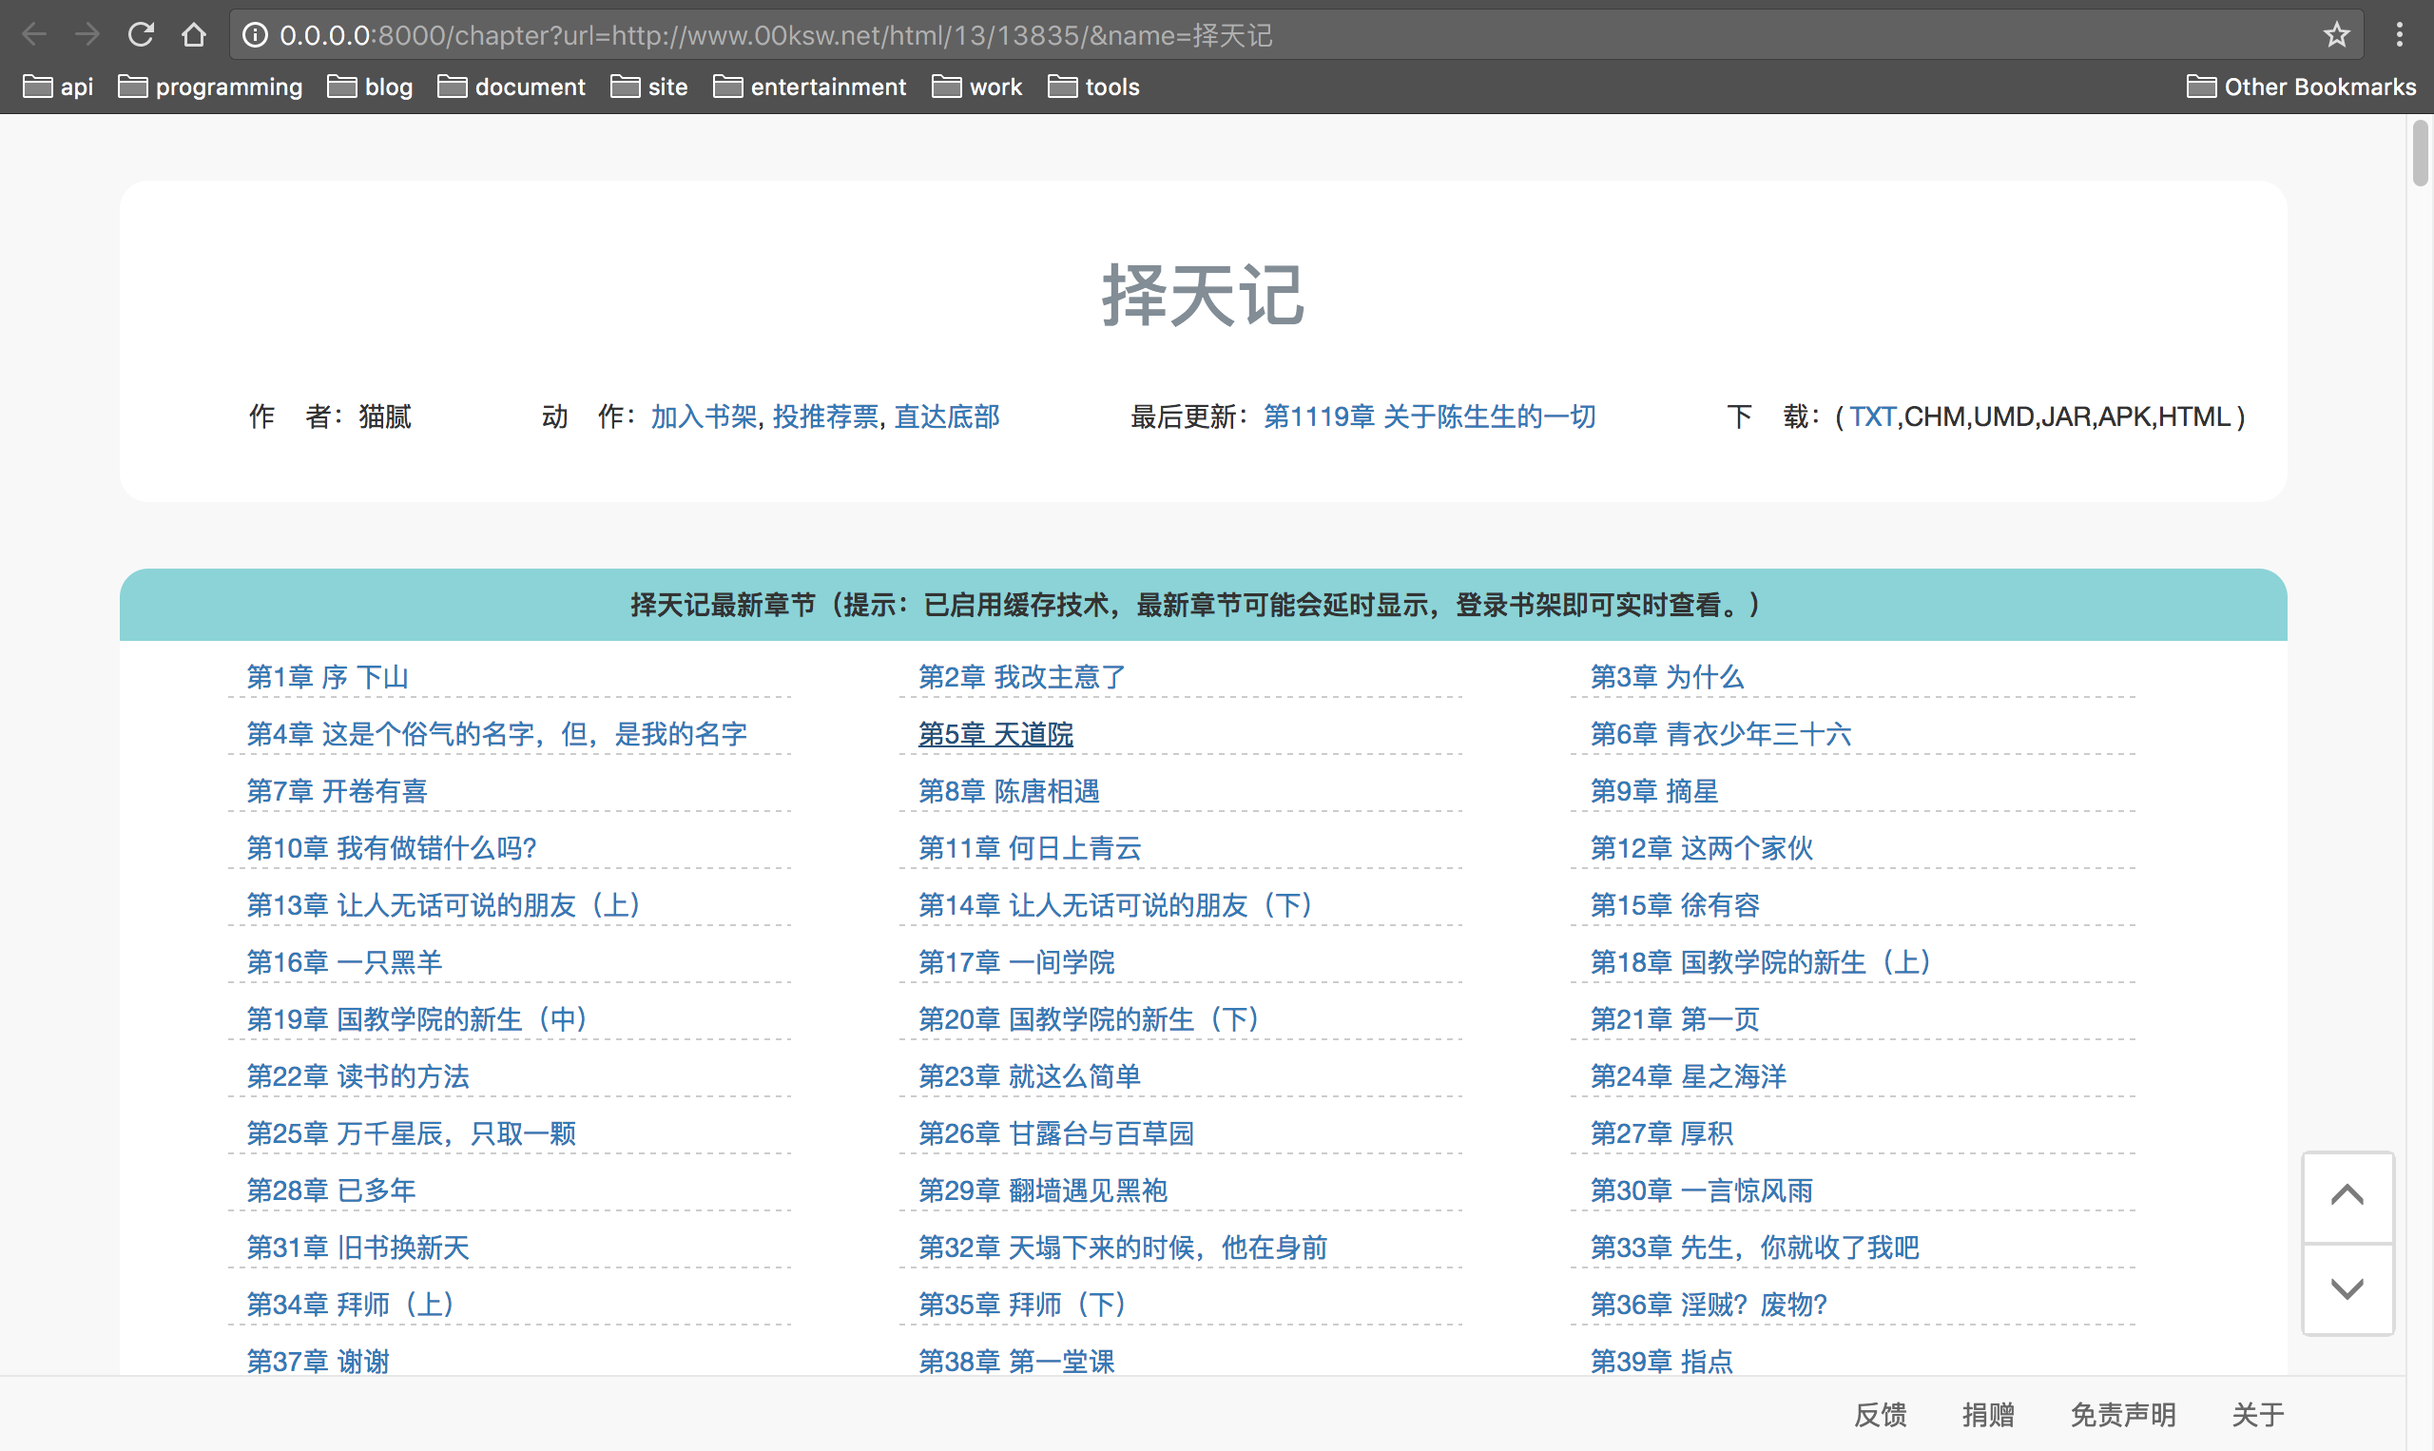
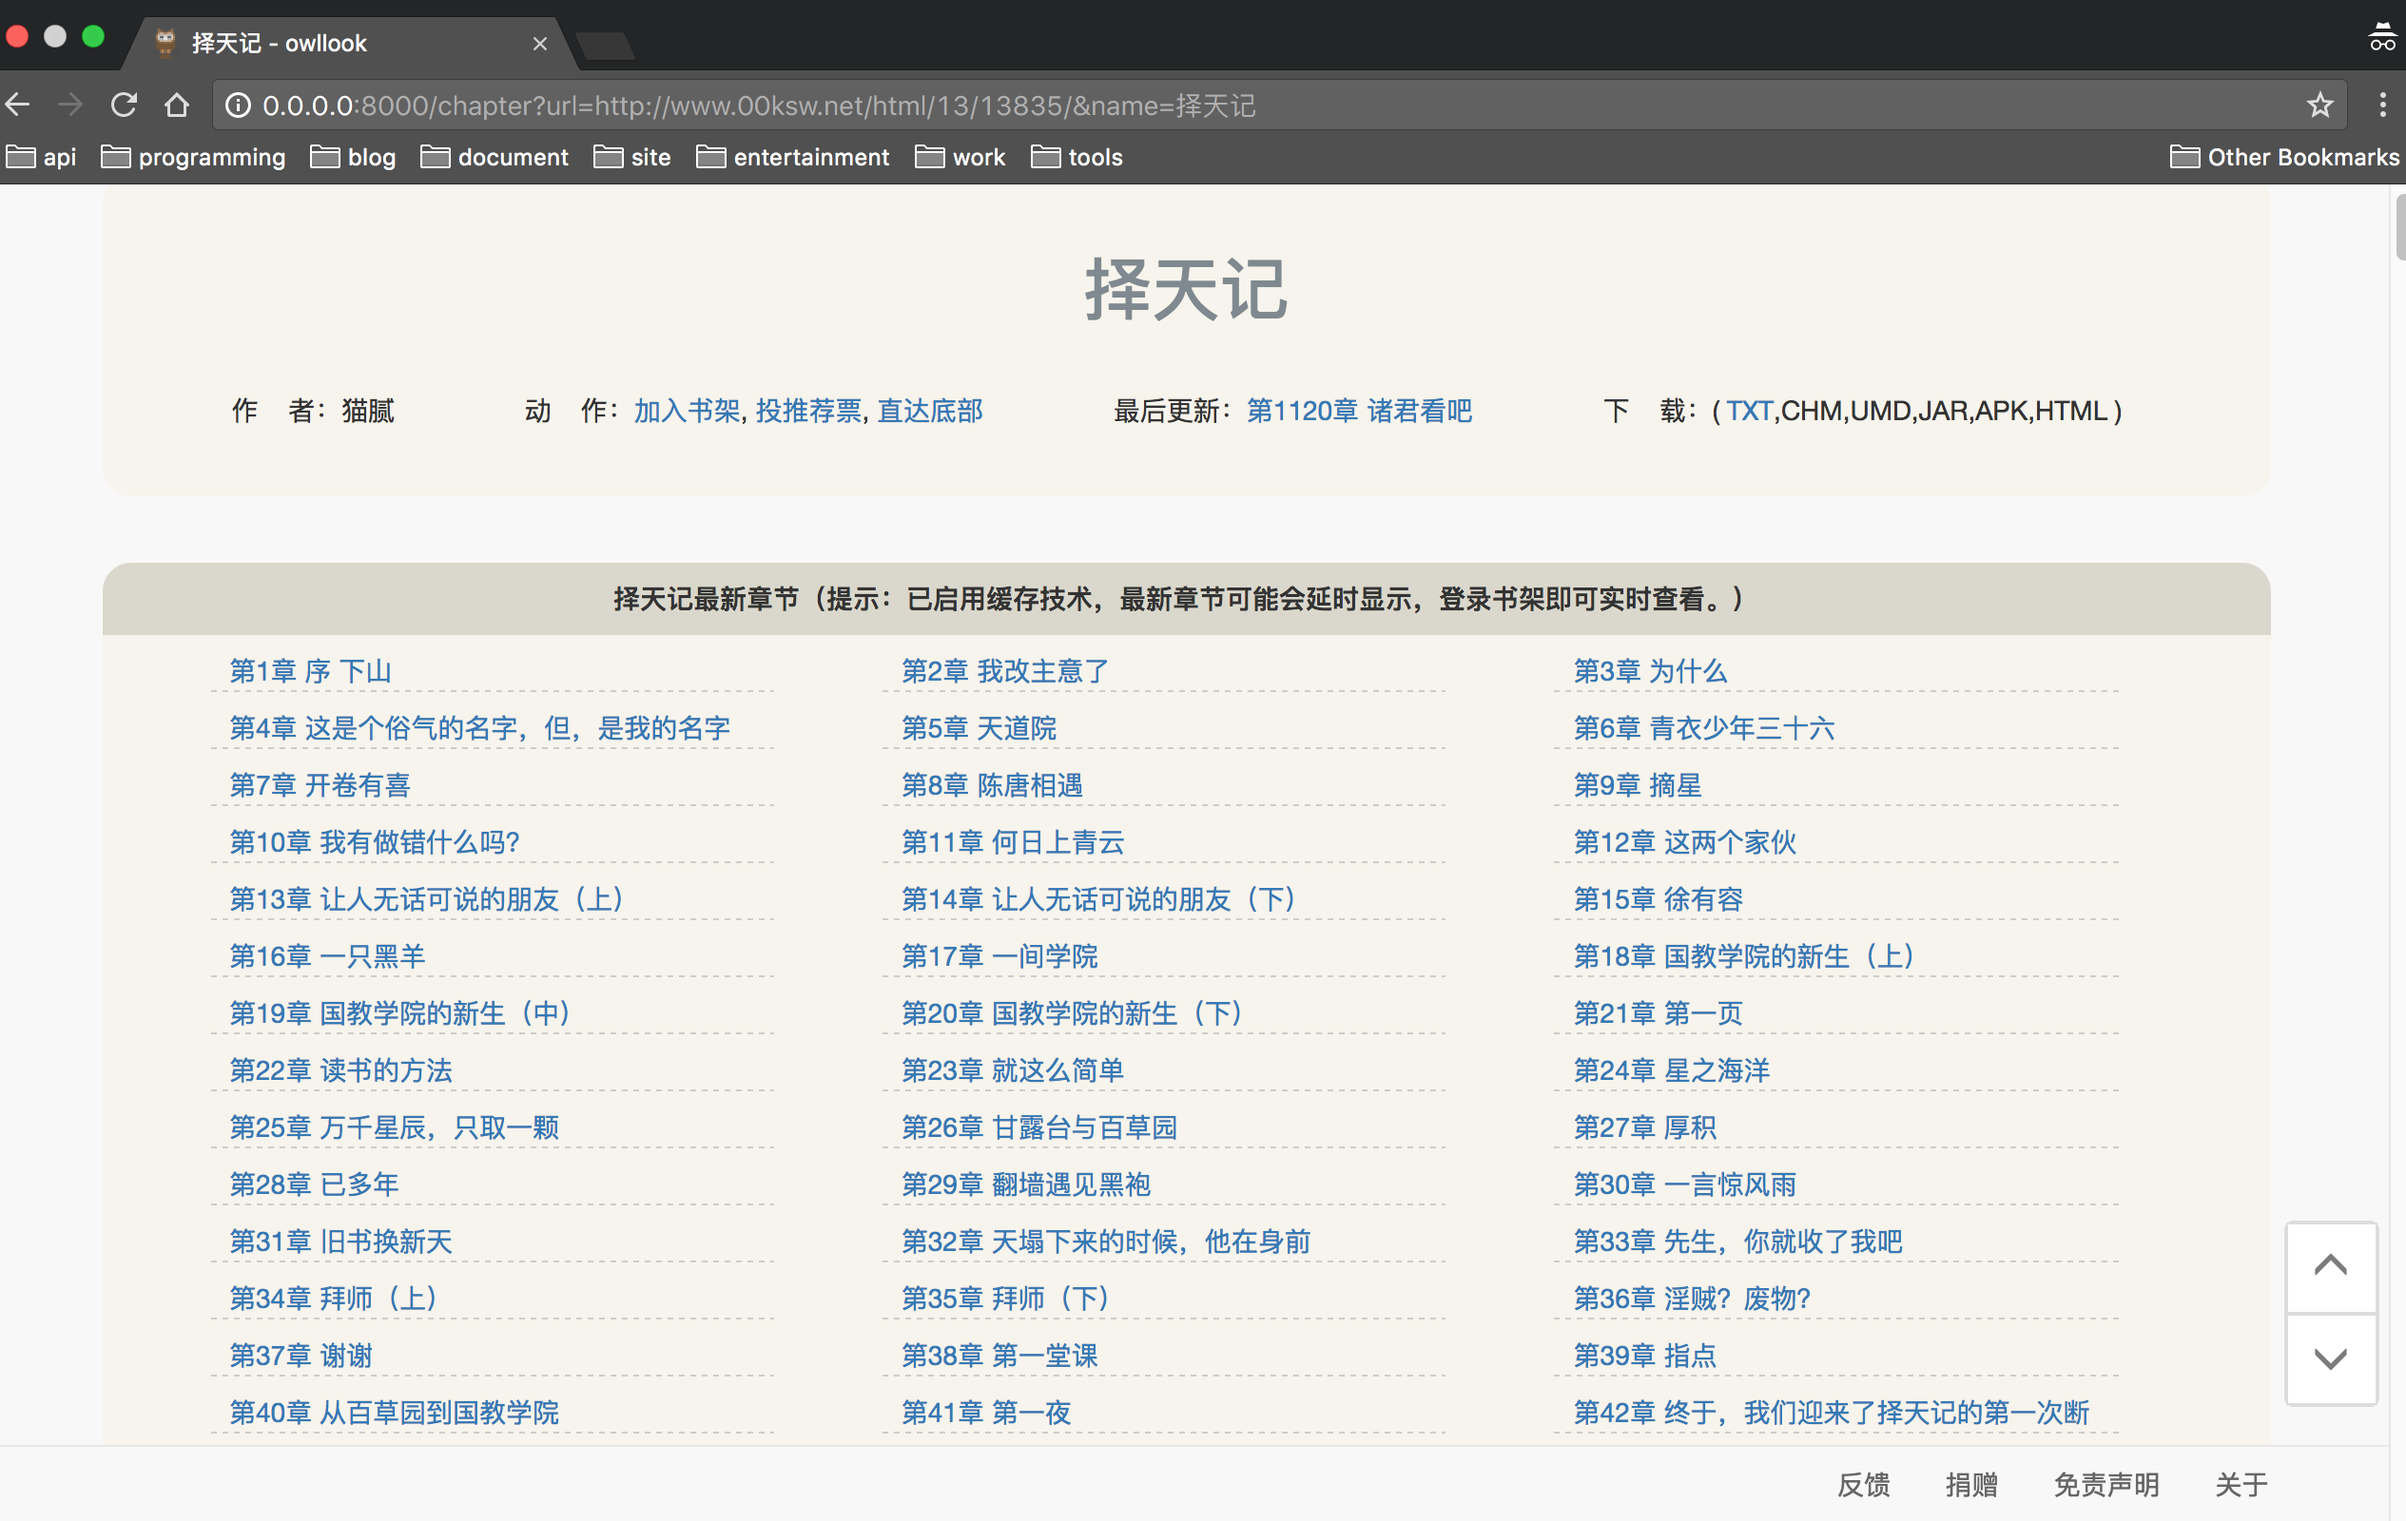
添加内容解析  修改目录解析样式

diff --git a/novels_search/static/css/chapter.css b/novels_search/static/css/chapter.css
@@ -1,5 +1,5 @@
 body {
-    background-color: #f8f8f8 !important;
+    background-color: #E5E4DB !important
 }
 
 .all-chapter {
@@ -11,7 +11,7 @@ body {
 }
 
 #maininfo {
-    background-color: #ffffff;
+    background: #F6F4EC;
     border-radius: 15px;
     margin-top: 35px;
     overflow: hidden;
@@ -53,7 +53,7 @@ body {
     overflow: hidden;
     padding-bottom: 1px;
     margin: auto;
-    background-color: #ffffff;
+    background: #F6F4EC;
     border-radius: 15px;
 }
 
@@ -61,8 +61,8 @@ body {
     margin-top: 35px;
 }
 
-#list dt, .panel > h2, .TabCss dt, .chapterlist > dt, .vcss, .chapter_list_chapter_title, .mt10 > .title > h2 {
-    background: none repeat scroll 0 0 rgba(113, 201, 206, 0.82);
+#cl_content > dl > dt, #list dt, .panel > h2, .TabCss dt, .chapterlist > dt, .vcss, .chapter_list_chapter_title, .mt10 > .title > h2 {
+    background: none repeat scroll 0 0 rgba(214, 212, 200, 0.89);
     display: inline;
     float: left;
     font-size: 14px;
@@ -75,7 +75,7 @@ body {
     padding: 5px 10px;
 }
 
-#list dd, .panel li, .chapterlist > dd, td.ccss, .chapter_list_chapter, .book_list > ul > li {
+#cl_content > dl > dd, #list dd, .panel li, .chapterlist > dd, td.ccss, .chapter_list_chapter, .book_list > ul > li {
     border-bottom: 1px dashed #CCC;
     display: inline;
     float: left;
@@ -119,9 +119,7 @@ dd > a {
 
 .panel {
     margin-bottom: 20px;
-    background-color: #f8f8f8 !important;
-    border: 1px solid transparent;
-    border-radius: 4px;
+    background-color: #E5E4DB !important;
     -webkit-box-shadow: 0 1px 1px rgba(0, 0, 0, .05);
     box-shadow: 0 1px 1px rgba(0, 0, 0, .05);
 }

diff --git a/novels_search/static/js/list.js b/novels_search/static/js/list.js
@@ -15,6 +15,10 @@ $(document).ready(function () {
                     // content_url=0表示章节网页需要当前url拼接
                     content_url = $("#url").val();
                     show_url = "owllook_content?url=" + content_url + url + "&name=" + name;
+                } else if (content_url == '-1') {
+                    // content_url=-1 表示特殊情况
+                    content_url = $("#url").val();
+                    show_url = "owllook_content?url=" + content_url + url + "&name=" + name;
                 } else {
                     show_url = "owllook_content?url=" + content_url + url + "&name=" + name;
 

diff --git a/novels_search/static/css/content.css b/novels_search/static/css/content.css
@@ -49,12 +49,16 @@ body {
 .show-content {
     width: 90%;
     line-height: 1.8;
-    font-size: 16px;
+    font-size: 16px !important;
     padding-top: 16px;
     min-height: 360px;
     margin-left: 5%;
     word-break: break-all;
     font-family: "Microsoft YaHei";
+}
+
+.show-content > p {
+    font-size: 16px !important;
 }
 
 .move {

diff --git a/novels_search/config/config.py b/novels_search/config/config.py
@@ -37,16 +37,11 @@ RULES = {
     # 已解析
     'www.xxbiquge.com': Rules('http://www.xxbiquge.com', {'class': 'box_con'}, {}),
     'www.37zw.com': Rules('www.37zw.com', {'class': 'box_con'}, {}),
-    # 已解析
-    'www.00ksw.net': Rules('0', {'class': 'box_con'}, {'id': 'content'}),
-    'www.81zw.com': Rules('www.81zw.com', {'class': 'box_con'}, {}),
     'www.qu.la': Rules('www.qu.la', {'class': 'box_con'}, {}),
     'www.siluke.tw': Rules('www.siluke.tw', {'class': 'box_con'}, {}),
     'www.biquge.tw': Rules('www.biquge.tw', {'class': 'box_con'}, {}),
     'www.shuge.net': Rules('www.shuge.net', {'class': 'box_con'}, {}),
     'www.09xs.com': Rules('www.09xs.com', {'class': 'box_con'}, {}),
-    # 已解析
-    'www.booktxt.net': Rules('http://www.booktxt.net', {'class': 'box_con'}, {}),
     'www.fs23.com': Rules('www.fs23.com', {'class': 'box_con'}, {}),
     'www.fhxiaoshuo.com': Rules('www.fhxiaoshuo.com', {'class': 'box_con'}, {}),
     'www.yikanxiaoshuo.com': Rules('www.yikanxiaoshuo.com', {'class': 'box_con'}, {}),
@@ -54,8 +49,6 @@ RULES = {
     'www.lingdiankanshu.com': Rules('www.lingdiankanshu.com', {'class': 'box_con'}, {}),
     'www.1xiaoshuo.com': Rules('www.1xiaoshuo.com', {'class': 'box_con'}, {}),
     'www.kanshu.la': Rules('www.kanshu.la', {'class': 'box_con'}, {}),
-    # 已解析  content_url=1表示章节链接使用本身自带的链接，不用拼接
-    'wanmeishijiexiaoshuo.org': Rules('1', {'class': 'bg'}, {}),
     # 已解析  content_url=1表示章节链接使用本身自带的链接，不用拼接
     'www.jueshitangmen.info': Rules('1', {'class': 'bg'}, {}),
     # 已解析
@@ -67,15 +60,29 @@ RULES = {
     'www.23us.la': Rules('http://www.23us.la', {'class': 'inner'}, {}),
     # 已解析
     'www.23us.cc': Rules('http://www.23us.cc', {'class': 'inner'}, {}),
-    'www.sosoxiaoshuo.cc': Rules('www.sosoxiaoshuo.cc', {'class': 'box_con'}, {}),
-    'www.ciluke.com': Rules('http://www.ciluke.com/0/2/2900/', {'id': 'list'}, {}),
     'www.555zw.com': Rules('www.555zw.com', {'class': 'dir'}, {}),
     # 'www.hhlwx.com': Rules('www.hhlwx.co', {'class': 'chapterlist'},{}),
     # 已解析 content_url=0表示章节网页需要当前页面url拼接
     'www.23zw.com': Rules('0', {'id': 'chapter_list'}, {}),
-    # 已解析  content_url=1表示章节链接使用本身自带的链接，不用拼接
-    'www.baoliny.com': Rules('1', {'class': 'readerListShow'}, {}),
     # 已解析
     'www.lingyu.org': Rules('http://www.lingyu.org', {'class': 'mt10'}, {}),
     'www.kbiquge.com': Rules('http://www.kbiquge.com', {'class': 'box_con'}, {}),
+    # 已解析
+    'www.00ksw.net': Rules('0', {'class': 'box_con'}, {'id': 'content'}),
+    # 已解析
+    'www.booktxt.net': Rules('http://www.booktxt.net', {'class': 'box_con'}, {'id': 'content'}),
+    # 已解析  content_url=1表示章节链接使用本身自带的链接，不用拼接
+    'wanmeishijiexiaoshuo.org': Rules('1', {'class': 'bg'}, {'class': 'content'}),
+    # 已解析
+    'www.sosoxiaoshuo.cc': Rules('http://www.sosoxiaoshuo.cc', {'class': 'box_con'}, {'id': 'content'}),
+    # 已解析
+    'www.ciluke.com': Rules('0', {'id': 'list'}, {'id': 'content'}),
+    # 已解析
+    'www.81zw.com': Rules('0', {'class': 'box_con'}, {'id': 'content'}),
+    # 已解析
+    'www.cilook.net': Rules('0', {'id': 'cl_content'}, {'id': 'content'}),
+    # 已解析  content_url=1表示章节链接使用本身自带的链接，不用拼接
+    'www.baoliny.com': Rules('1', {'class': 'readerListShow'}, {'id': 'content'}),
+    # 已解析
+    # 'www.xs82.com': Rules('-1', {'class': 'chapterlist'}, {'id': 'content'}),
 }

diff --git a/docs/规则定义.md b/docs/规则定义.md
@@ -31,6 +31,7 @@ Rules = namedtuple('Rules', 'content_url chapter_selector content_selector')
 
   |   值    |          说明          |
   | :----: | :------------------: |
+  |   -1   |     不解析，跳转到原本网页      |
   |   0    |  表示章节网页需要当前页面url拼接   |
   |   1    | 表示章节链接使用本身自带的链接，不用拼接 |
   | netloc |       用域名进行拼接        |
